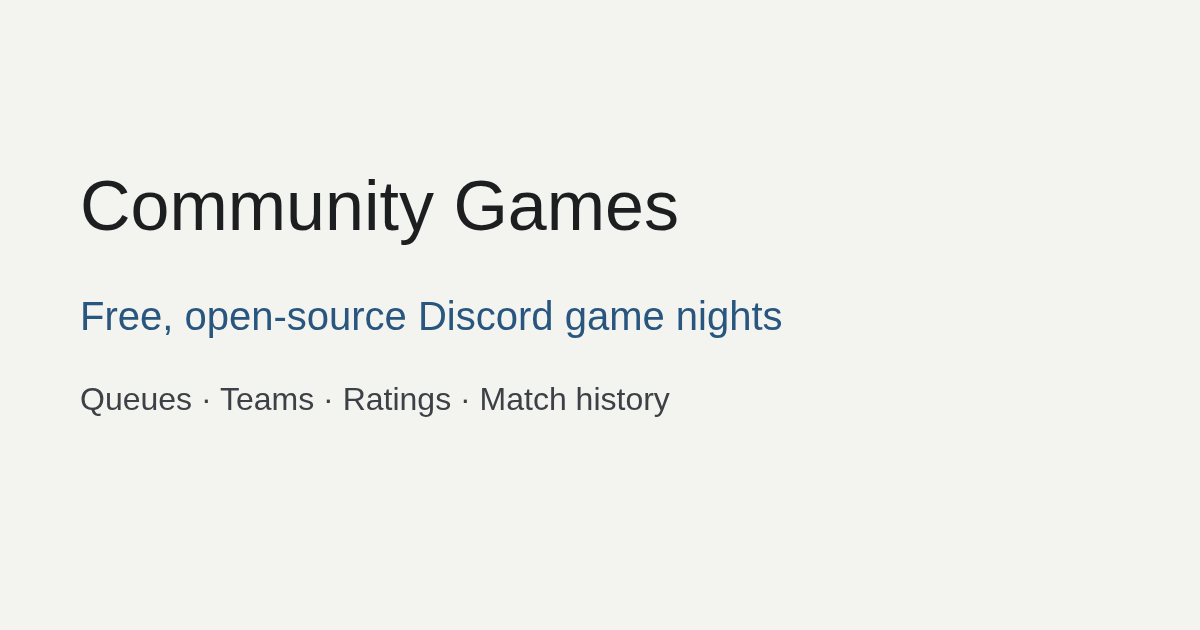
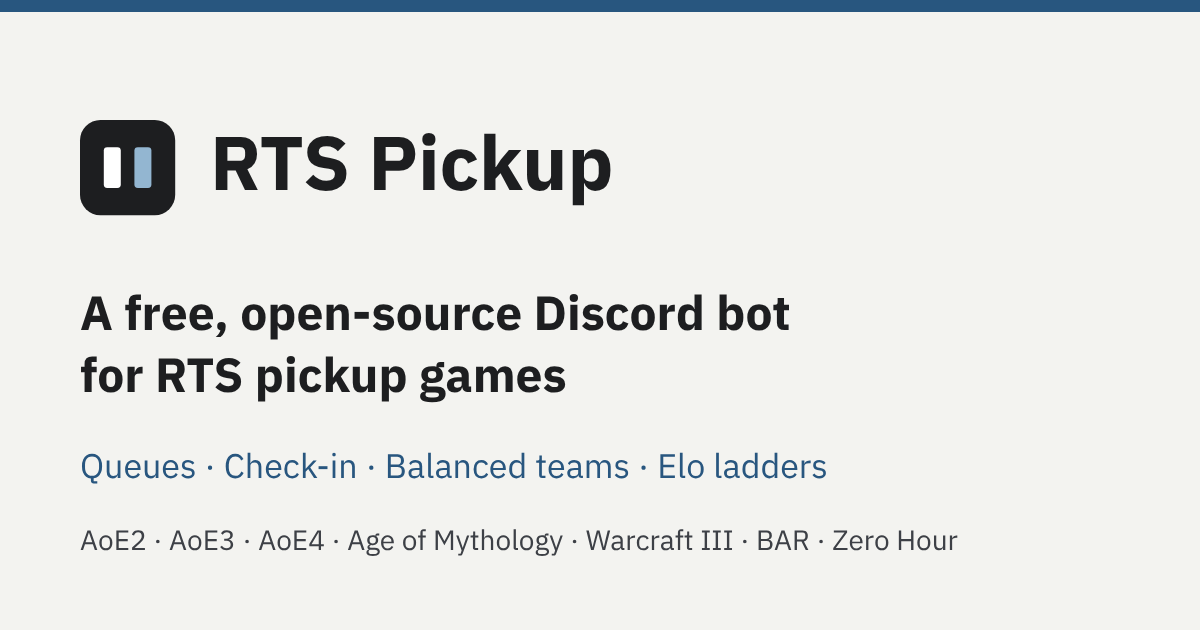
Rename the social preview to RTS Pickup and document the S3 site
Claude-Session: https://claude.ai/code/session_0171HtStzZw7ejbz1jWJfNCm

diff --git a/cloudflare/docs/public-site-delivery.md b/cloudflare/docs/public-site-delivery.md
@@ -1,10 +1,10 @@
 # NammaMatchBot UI and public-site delivery
 
-The public name remains Community Games. Internal package identity is NammaMatchBot; public name, repository and license are centralized in `src/identity.ts`. No Discord application or repository rename is part of this release.
+The public name is RTS Pickup. Internal package identity is NammaMatchBot; public name, repository and license are centralized in `src/identity.ts`, and site copy reads the name from there rather than hard-coding it.
 
 ## Build and routes
 
-`npm run build:web` builds the organizer first, preserves it at `/app/`, then emits and validates 32 static public pages. The seven published-source game descriptions have 700–1,200 words each and separate setup guides. Game coverage is checked against the selectable catalog; command documentation uses the registered command tree.
+`npm run build:web` builds the organizer first, preserves it at `/app/`, then emits and validates 31 static public pages plus 10 moved-page notices. Game coverage is checked against the selectable catalog; command documentation uses the registered command tree.
 
 The Worker runs before assets so environment indexing policy applies to both. `/stats` and `/link` remain supported. Old root organizer queries redirect to `/app/` preserving query state. Unknown public routes use the real 404 asset. Vite preview supplies equivalent app entry routing for browser fixtures.
 
@@ -32,7 +32,7 @@ Real iOS Safari and Android Chrome verification requires physical devices: nativ
 
 Local verification passed: 1,357 Worker tests, 124 Chromium/WebKit cases, 11 converter cases, type checks, public-page build validation and Worker dry build. A focused 101-case regression run covers the final publishing retry/revision guard and gameplay scheduling changes. Anonymous requests against a real local Worker verified public HTML, `/app/`, `/stats`, `/link`, robots, sitemap, asset noindex and a true 404.
 
-Representative desktop/phone screenshots were captured for all organizer destinations and the public home, game, guide, features, About and Open Source pages. The website includes a labelled organizer screenshot using test fixtures. Physical iOS/Android checks and an authenticated deployed Discord setup smoke test have not been performed in this release.
+Representative desktop/phone screenshots were captured for all organizer destinations and the public home, game, guide, features, About and Open Source pages. Physical iOS/Android checks and an authenticated deployed Discord setup smoke test have not been performed in this release.
 
 Directory registrations carry the saved configuration revision. Older registrations cannot replace newer ones. Pending registration has a durable retry deadline that participates in the existing gameplay alarm schedule, so subsequent scheduling does not erase the retry.
 
@@ -45,3 +45,14 @@ Queues disable Start below two waiting players and when paused; empty queues omi
 Automatic substitutions rebalance during check-in and preserve team membership once playing, matching explicit replacements. Captain ordering may refresh within each team. Initial render no longer focuses the community picker without a prior focused control; keyboard focus restoration remains in place.
 
 This release adds no storage migration or connector activation. Real iOS/Android hardware checks and an authenticated organizer journey on the live deployment remain outside browser-fixture coverage.
+
+## Public site for server owners (S3)
+
+Content lives in `site/content.mjs` (pages), `site/game-copy.mjs` (what is specific to each game), `site/examples.mjs` (example bot cards) and `site/commands.mjs` (command grouping). `scripts/build-site.mjs` assembles them; `src/public-site.ts` is the shell.
+
+- **One setup guide.** `/guides/getting-started/` holds the five steps. The seven `/games/*/setup/` pages, `/features/queues-and-teams/`, `/guides/import-ratings/` and `/guides/switch-from-pubobot/` are folded into other pages; each old URL keeps a short noindex page with a canonical link and an immediate meta refresh, is listed under `moved` in `site-manifest.json`, and is left out of the sitemap. A worker 308 for those paths would be cleaner and can replace the notices later.
+- **Feature pages.** Eleven pages under `/features/`, each short and with a "What it can't do yet" list. Beta: AoE2 lobby tracking and other game tracking, predictions (opt-in).
+- **Example cards.** `site/examples.mjs` renders what the bot posts (queue, check-in, teams, result, substitute, map vote, predictions, civ picks, withdrawn result) in the site palette, captioned "Example". Wording follows `src/discord/cards.ts`; names and ratings are illustrative. The match card shows a "Report result" button, which the bot unit is adding.
+- **Console screenshots.** `web/public/screenshots/console-*.png` come from the local preview with the e2e mock fixtures (`mockApp`), environment badge hidden, demo names. Regenerate them with a throwaway spec like the one in the S3 hand-off; do not commit it under `e2e/`, because it writes into `web/public/`.
+- **Command reference.** Grouped Players → Captains → Organizers by a small map in `site/commands.mjs`. A command the map does not know is placed by its permissions and description (admin permissions → Organizers, "Captain…" → Captains, otherwise Players), never dropped.
+- **Checks.** `scripts/check-site.mjs` now also checks title (≤62) and description (50–160) length, heading order, breadcrumb JSON-LD against the visible trail, images (exists, width, height, alt), same-page anchors, moved pages, the sitemap and internal wording on public pages. `tests/public-site.test.ts` crawls the generated pages through the assets binding.
